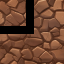
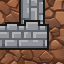
novas sprites

diff --git a/Labirinth_game/core/src/main/java/com/badlogic/Labirinth/Main.java b/Labirinth_game/core/src/main/java/com/badlogic/Labirinth/Main.java
@@ -50,6 +50,9 @@ public class Main implements ApplicationListener {
     Texture floorXTexture;
     Texture floorPTexture;
     Texture floorETexture;
+    Texture floorGTexture;
+    Texture floorFTexture;
+    Texture floorITexture;
     Portas portas;
 
     private boolean wasTouched = false;
@@ -75,6 +78,9 @@ public class Main implements ApplicationListener {
         floorXTexture = new Texture(Gdx.files.internal("floorX.png"));
         floorPTexture = new Texture(Gdx.files.internal("floor+.png"));
         floorETexture = new Texture(Gdx.files.internal("floorE.png"));
+        floorGTexture = new Texture(Gdx.files.internal("floorG.png"));
+        floorFTexture = new Texture(Gdx.files.internal("floorF.png"));
+        floorITexture = new Texture(Gdx.files.internal("floorI.png"));
         mapData = loadMap("map.txt");
 
         portas = new Portas(mapData, rows, cols);
@@ -275,6 +281,9 @@ public class Main implements ApplicationListener {
                     case 'w':tex = floorWTexture;break;
                     case 'x':tex = floorXTexture;break;
                     case '+':tex = floorPTexture;break;
+                    case 'g':tex = floorGTexture;break;
+                    case 'f':tex = floorFTexture;break;
+                    case 'i':tex = floorITexture;break;
 
                     case ' ':
                         tex = floorTexture;
